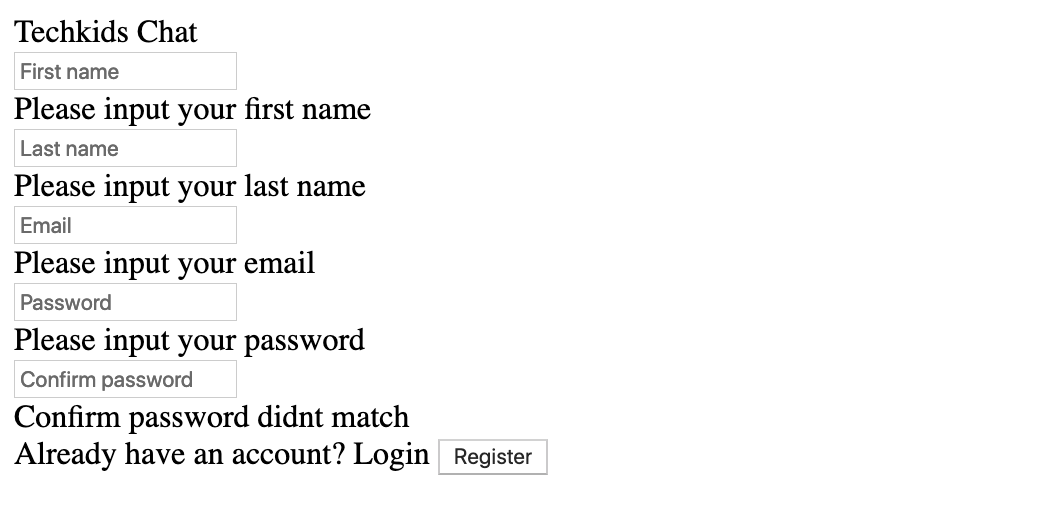
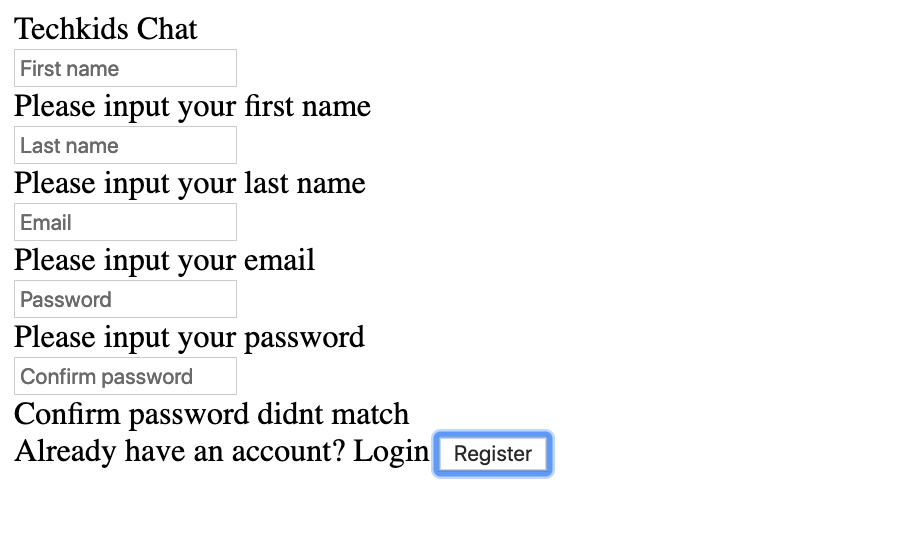
update images

Changed region(s): [[0.0, 0.0309, 0.6154, 0.9266]]

diff --git a/login-register-ui/example/html/index.html b/login-register-ui/example/html/index.html
@@ -4,8 +4,8 @@
   <meta charset="utf-8" />
   <meta http-equiv="X-UA-Compatible" content="IE=edge">
   <meta name="viewport" content="width=device-width, initial-scale=1">
-  <!-- <link rel='stylesheet' type='text/css' href='../css/register.css' /> -->
-  <!-- <link rel='stylesheet' type='text/css' href='../css/style.css' /> -->
+  <link rel='stylesheet' type='text/css' href='../css/register.css' />
+  <link rel='stylesheet' type='text/css' href='../css/style.css' />
   <link href="https://fonts.googleapis.com/css?family=Open+Sans" rel="stylesheet" />
   <title>Page Title</title>
 </head>

diff --git a/login-register-ui/login-register-ui.md b/login-register-ui/login-register-ui.md
@@ -416,6 +416,17 @@
 
     - Như vậy, ở bất kì màn hình nào, nếu sử dụng thẻ `<input>` hoặc `<button>`, ta chỉ cần thêm class `.input` hoặc `.btn`
 
+3. Link 2 file css vừa tạo vào file `index.html`
+
+    ```html
+      <head>
+        ...
+
+        <link rel='stylesheet' type='text/css' href='../css/register.css' />
+        <link rel='stylesheet' type='text/css' href='../css/style.css' />
+      </head>
+    ```
+
     - Kết quả sau khi thêm CSS:
 
     ![Màn hình đăng kí 1](/login-register-ui/register-ui.png)
